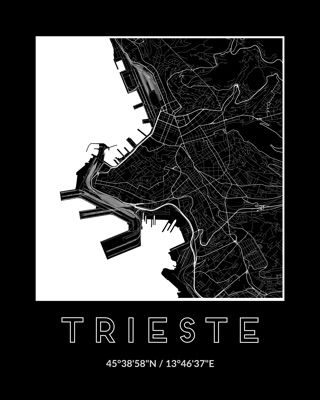
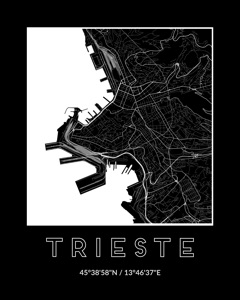
Use smaller thumbnails

diff --git a/README.md b/README.md
@@ -21,7 +21,7 @@
 ```sh
 for IMAGE in $(find . -type f -name "*_full.png"); do
   FILE=$(echo "$IMAGE" | sed 's/_full.png//g')
-  sips -s format jpeg $IMAGE --out ${FILE}_thumbnail.jpg --resampleHeight 400 -s formatOptions 80
+  sips -s format jpeg $IMAGE --out ${FILE}_thumbnail.jpg --resampleHeight 300 -s formatOptions 80
   sips -s format jpeg $IMAGE --out ${FILE}_large.jpg --resampleWidth 1000 -s formatOptions 80
 done
 ```
